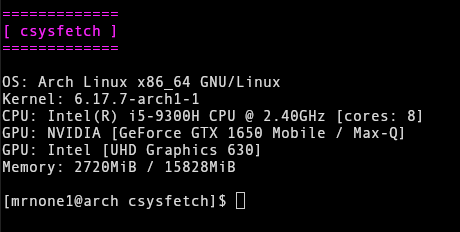
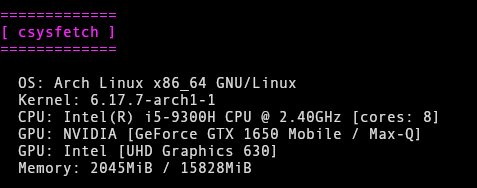
update

Changed region(s): [[0.0, 0.3191, 0.9435, 0.9309], [0.0, 0.0266, 0.2739, 0.2926], [0.8826, 0.4787, 0.913, 0.5319]]

diff --git a/main.h b/main.h
@@ -7,7 +7,7 @@
 
 // TO CHANGE COLOR OF LOGO CHANGE THE 95 IN COLOR TO A DIFFERENT ANSI COLOR CODE
 // COMMON ONES ARE: RED = 91, GREEN = 92, YELLOW = 93, BLUE = 94, PURPLE = 95, CYAN = 96, WHITE 97
-const char* COLOR = "\033[0;95m";
+const char* COLOR = "\033[0;92m";
 const char* RESET = "\033[m";
 
 
@@ -27,7 +27,7 @@ int displayInfo() {
 	}
 	char buff[100];
 	while (fgets(buff, sizeof(buff), fptr) != NULL) {
-		printf("%s", buff);
+		printf("  %s", buff, "%s");
 	}
 
 	fclose(fptr);
